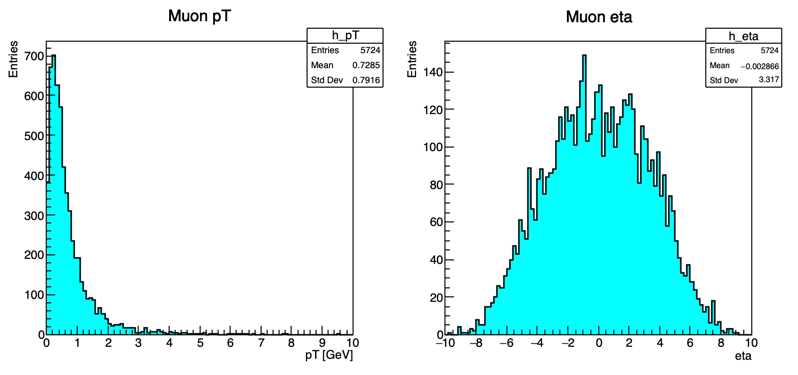
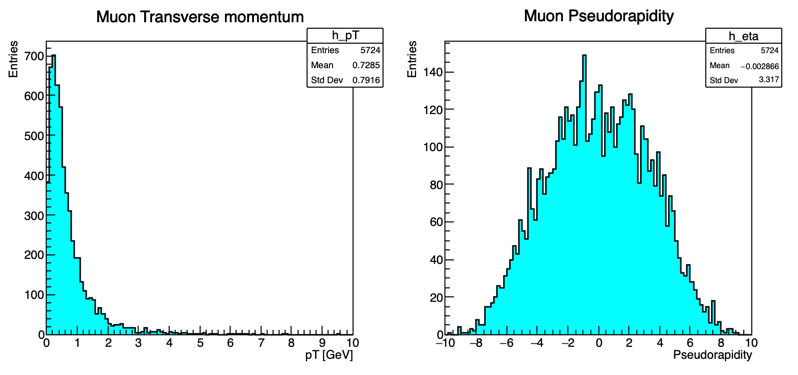
Question 2 and tweaks for question 1

Changed region(s): [[0.1203, 0.0293, 0.391, 0.0587], [0.6316, 0.0293, 0.8421, 0.0587], [0.8421, 0.9387, 0.9624, 0.968]]

diff --git a/Exercises/Ex8/returned_answers/CamilleJacomet/muon_hist.py b/Exercises/Ex8/returned_answers/CamilleJacomet/muon_hist.py
@@ -14,10 +14,10 @@ def main():
             pT.append(float(p))
             eta.append(float(e))
 
-    h_pT = ROOT.TH1F("h_pT", "Muon pT; pT [GeV]; Entries", 100, 0, 10)
+    h_pT = ROOT.TH1F("h_pT", "Muon Transverse momentum; pT [GeV]; Entries", 100, 0, 10)
     h_pT.SetColors(ROOT.kBlack,ROOT.kBlack,ROOT.kCyan)
     h_pT.SetLineWidth(3)
-    h_eta = ROOT.TH1F("h_eta", "Muon eta; eta; Entries", 100, -10, 10)
+    h_eta = ROOT.TH1F("h_eta", "Muon Pseudorapidity; Pseudorapidity; Entries", 100, -10, 10)
     h_eta.SetColors(ROOT.kBlack,ROOT.kBlack,ROOT.kCyan)
     h_eta.SetLineWidth(3)
 

diff --git a/Exercises/Ex8/returned_answers/CamilleJacomet/muon_prob.py b/Exercises/Ex8/returned_answers/CamilleJacomet/muon_prob.py
@@ -1,0 +1,18 @@
+def main():
+    total, detected = 0, 0
+
+    with open("muons.out") as fIN:
+        for line in fIN:
+            if line.strip():
+                p, e = map(float, line.split())
+                total += 1
+
+                if p > 5 and abs(e) < 2.5:
+                    detected += 1
+
+    prob = detected / total if total > 0 else 0
+
+    print(f"The probability for the system to detect a muon is ~{prob*100:.2f}%")
+
+if __name__ == "__main__":
+    main()
